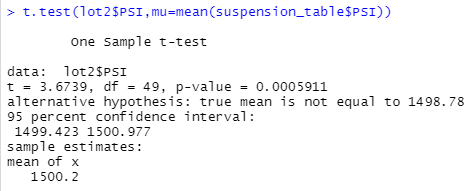
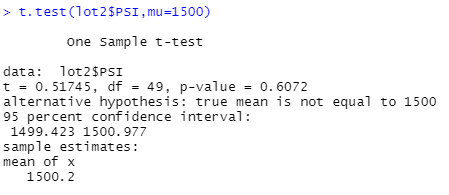
update readme and change some images

Changed region(s): [[0.0, 0.3403, 0.9978, 0.9686], [0.0, 0.0262, 0.8419, 0.1047], [0.1247, 0.1832, 0.4677, 0.2618]]

diff --git a/README.md b/README.md
@@ -10,23 +10,53 @@ Jeremy is the new head of data analytics for AutosRUs, a car production company.
 
 ![Linear Regression](https://github.com/Jeffstr00/MechaCar_Statistical_Analysis/blob/main/Resources/linear_regression.png)
 
+In other words, multiple linear regression model is:
+mpg = -104 + 6.267(vehicle_length) + .001245(vehicle_weight) + .06877(spoiler_angle) + 3.546(ground_clearance) -3.411(AWD)
+
 ![Linear Regression Summary](https://github.com/Jeffstr00/MechaCar_Statistical_Analysis/blob/main/Resources/linear_regression_summary.png)
+
+* The Pr(>|t|) column displays individual variable p-values, or the probability that the corresponding coefficient contributes a random amount of variance to the model.  With high (greater than .05) p-values, that means that vehicle weight (though somewhat borderline), spoiler angle, and all wheel drive have a largely random impact on the resulting miles per gallon.  On the other hand, this means that, with their exceptionally small (less than .05) p-values, vehicle length, ground clearance, and the intercept all have a statistically significant impact on mpg.
+
+* The p-value of our linear regression model is 5.35x10<sup>-6</sup>.  As this is much, much smaller than our assumed significance level of 0.05%, we can safely say that the slope of the linear model is not considered to be zero.
+
+* While there is no hard and fast rule for declaring whether a linear model is effective or not, with a relatively high r-squared value of 0.71 (out of a maximum 1.0), most would say that this is an effective model.  That means that 71% of the variability of mpg is explained using the model and the given variables.
 
 ### Summary Statistics on Suspension Coils
 
 ![Suspension Summary](https://github.com/Jeffstr00/MechaCar_Statistical_Analysis/blob/main/Resources/suspension_summary.png)
 
-![Lot Suspension Summary](https://github.com/Jeffstr00/MechaCar_Statistical_Analysis/blob/main/Resources/linear_regression.png)
+The design specifications for the MechaCar suspension coils dictate that the variance of the suspension coils must not exceed 100 pounds per square inch.  With a variance of 62.29 pounds per square inch, that means that, overall, there does not seem to be a problem, as the variance is within the allowed threshold.  However, what about when you look at it broken down by manufacturing lot?
+
+![Lot Suspension Summary](https://github.com/Jeffstr00/MechaCar_Statistical_Analysis/blob/main/Resources/lot_suspension_summary.png)
+
+Now the issue becomes clear.  While Lot1 and Lot2 perform well (with variance well below the allowed 100psi), that is not the case for Lot3.  Their variance is 170.29psi, or nearly twice what is allowed.  While the former two perform well enough to reign in the bad results from Lot3 and make it appear as if things are going okay when looking at everything together, when you separate them, it becomes clear that Lot3 is causing the production issues.
 
 ### T-Tests on Suspension Coils
 
 ![T-Test](https://github.com/Jeffstr00/MechaCar_Statistical_Analysis/blob/main/Resources/ttest.png)
 
+When looking at results of the three lots combined, things overall seem fine, but with a little area of concern.  With a p-value of 0.060, this is above .05, so we can safely say that we cannot reject the alternative hypothesis that the true mean is equal to 1500.  With 95% certainty, we can claim that the mean is very close to 1500, specifically between 1497.5 and 1500.1.  However, with those numbers slightly skewed low (as opposed to being, for instance, more even with 1499 and 1501), that is a little bit concerning.  Maybe we should look at results of the lots individually?
+
 ![T-Test: Lot 1](https://github.com/Jeffstr00/MechaCar_Statistical_Analysis/blob/main/Resources/ttest_lot1.png)
+
+Lot1 is about as close to perfection as you can get.  With a p-value of 1, which is obviously higher than 0.05, we definitely can't reject the alternative hypothesis that the true mean is equal to 1500.  With 95% certainty, we can claim that the true mean is somewhere between the indredibly small range of 1499.72 - 1500.28.
 
 ![T-Test: Lot 2](https://github.com/Jeffstr00/MechaCar_Statistical_Analysis/blob/main/Resources/ttest_lot1.png)
 
+While not as impressive as Lot1, Lot2 still performed admirably.  It provided a mean of 1500.2, which is very close to the ideal 1500.  The p-value of .61 is higher than .05, so we can say with 95% certainty that the true mean lies somewhere between 1499.42 and 1500.98.
+
 ![T-Test: Lot 3](https://github.com/Jeffstr00/MechaCar_Statistical_Analysis/blob/main/Resources/ttest_lot1.png)
+
+However, Lot3 does not perform as well as the first two.  With a p-value of 0.04, which falls below the 0.05 threshold, we are 95% certain that the mean at this lot is not actually 1500.  In fact, it appears to be 1496.14, or somewhere between 1492.43 and 1499.85.  So, even in a best case scenario, that number falls below the desired 1500.  As a result, there is a less than 5% chance that the mean at Lot3 is 1500 like it should be.
 
 ## Study Design: MechaCar vs Competition
 
+One important factor that people often look into when choosing to buy a car is its eventual resale value.  This is not only important to people as it shows how much money they should expect to get in return when it comes time to trade in for a new car, but it provides a good representation of how much value the vehicle still provides at that point in its life.  Is the vehicle still performing well?  How much does it cost to maintain the car?  Does it still look cool, or has it lost its edge and become outdated?  All of this will be reflected in the resale value.
+
+As a result, being able to project what that resale value will be, and how it can be affected, would be highly beneficial to AutosRUs.  As a result, we will attempt to project resale value by performing a multiple linear regression analysis.  Using different variables (original cost, 0-60mph time, average yearly maintenance, spaciousness of vehicle, safety ratings, etc.), we will see how accurately we can predict resale value.
+
+In order to see how accurate our model is, we will want to conduct a T-test.  Calculating R-squared will tell us how much of the resale price the variables in our model were able to predict vs how much came down to randomness or outside factors, and a p-value hopefully below 0.05 will let us know that we can be confident in our results.  Additionally, performing this analysis should reveal just how important each factor is in determining resale value.  That way, the company can see what they should focus their efforts on if they aim to improve resale value.
+
+For this study, we would have:
+* Null Hypothesis: there is a relationship between the predictor variables (original cost, 0-60mph time, etc.) and the response (resale value).
+* Alternative Hypothesis: there is no relationship between the predictor variables and the response.
